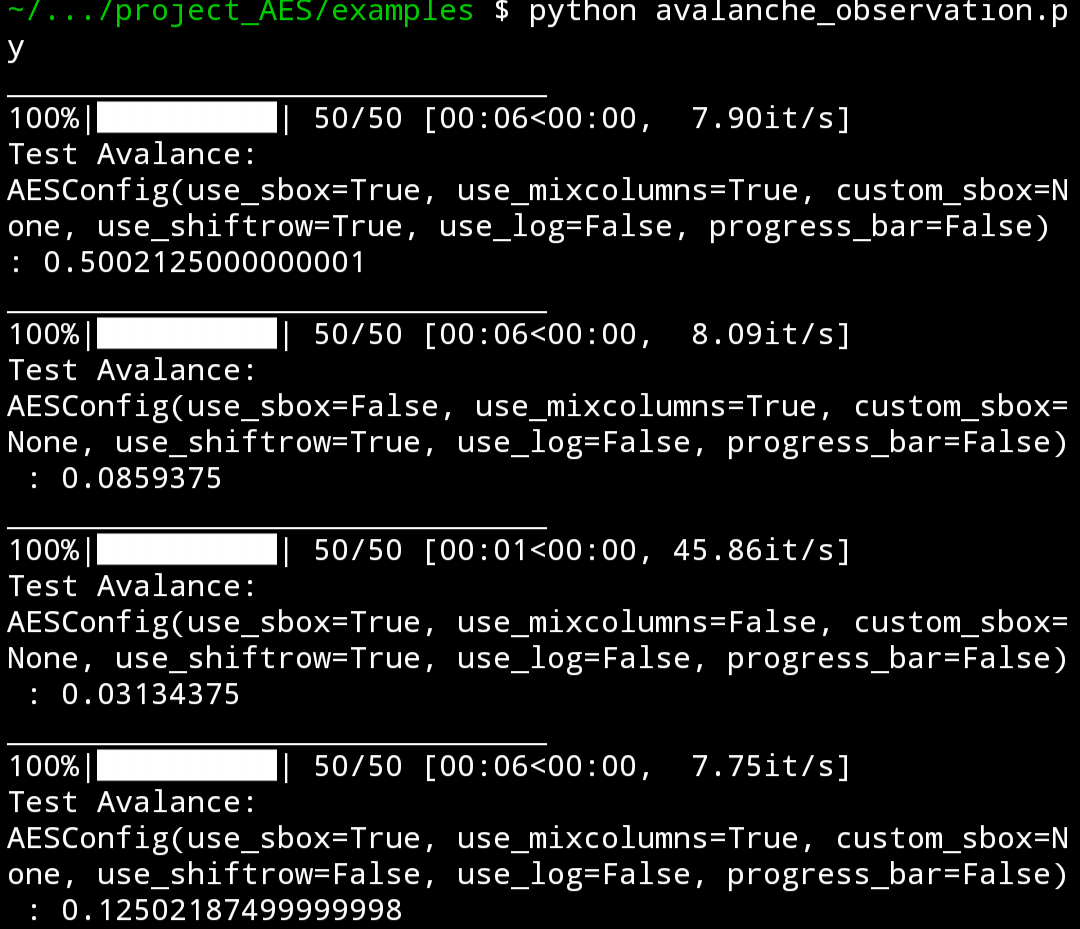
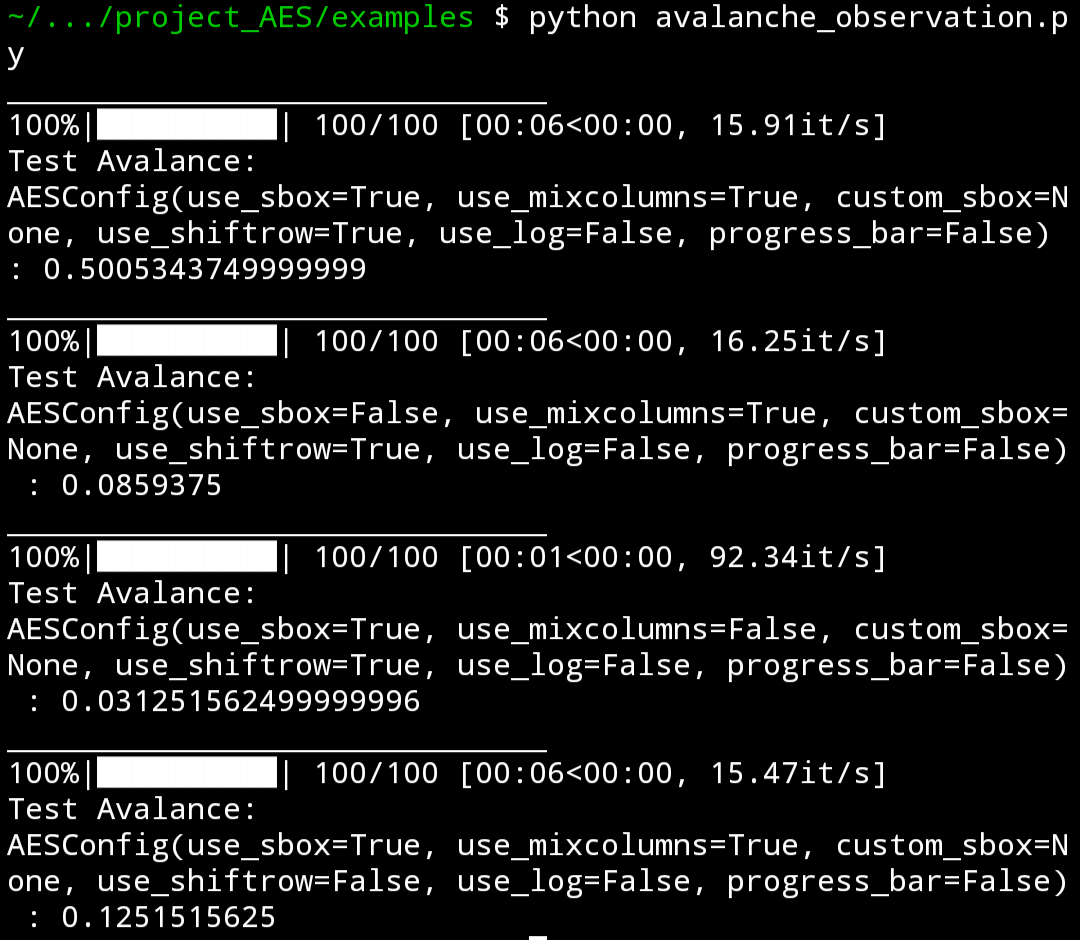
version 0.1.0

diff --git a/README.md b/README.md
@@ -8,8 +8,8 @@
 A pure Python implementation of the Advanced Encryption Standard (AES) algorithm with support for multiple key sizes, configurable internal transformations, detailed logging, and multiple cipher modes of operation.
 
 ## Features
-- AES-128 / AES-192 / AES-256 support
-- ECB / CBC / CTR modes
+- AES-128/AES-192/AES-256 support
+- ECB/CBC/CTR modes
 - PKCS#7 padding
 - Custom AES transformation configuration
 - Custom S-Box support
@@ -81,7 +81,7 @@ decrypt(data: bytes) -> bytes
 
 encrypt_block(block: bytes) -> bytes
 decrypt_block(block: bytes) -> bytes
-→ Low-level single block (16 bytes) encryption/decryption
+→ single block (16 bytes) encryption/decryption
 ```
 ## Examples
 This project includes two example scripts demonstrating different functionalities of the module:  
@@ -96,18 +96,22 @@ A script for encrypting and decrypting files using AES with various operation mo
 
 You can try to decrypt [these examples](https://github.com/shrimp2845-tw/project_AES/tree/main/examples/test_files) by your self
  
-hina.png -> encrypt(key=gehenna, mode=ECB) -> hina.bin
+- hina.png -> encrypt(key=gehenna, mode=ECB) -> hina.bin
 
-kayoko.jpg -> encrypt(key=cat, mode=CBC) -> kayoko.bin
+- kayoko.jpg -> encrypt(key=cat, mode=CBC) -> kayoko.bin
 
-r18.gif -> encrypt(key=give you up, mode=CTR) -> r18.bin
+- r18.gif -> encrypt(key=give you up, mode=CTR) -> r18.bin
+
+(I originally wanted to use a picture of Shiina Mahiru, but I couldn’t find any good images under a cc license QAQ)
 
 **2.Avalanche Observation**:
+
+![Alt-text](https://raw.githubusercontent.com/shrimp2845-tw/project_AES/main/examples/test_files/avalanche_observation.png)
 
 ## Disclaimer
 
 This implementation is intended for **analysis and educational purposes only**.  
 It does **not guarantee cryptographic security** or **production-level performance efficiency**.  
 
-Do not use this project in any environment that requires strong security assurances or optimized encryption performance.
+Do not use this project in any environment that requires strong security assurances.
 
